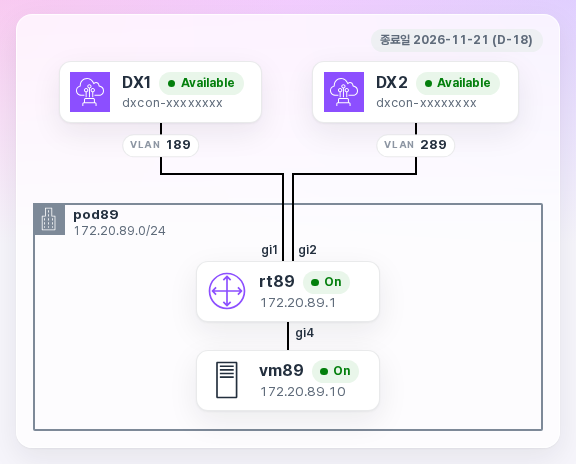
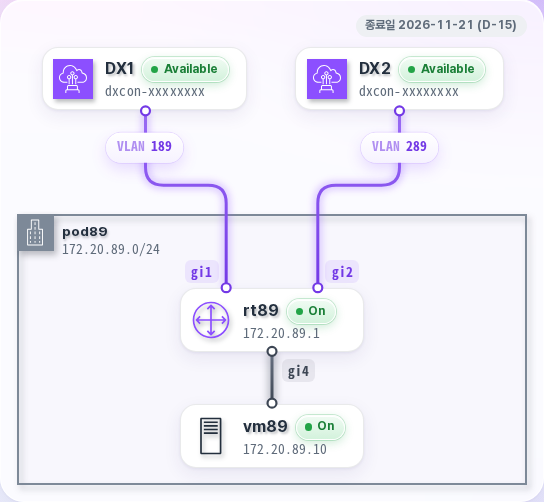
Re-verify the whole lab on the reset DX lab and fix the NAT rule steps, web server restart, samples, timings and portal screenshots
Claude-Session: https://claude.ai/code/session_019PvznqA5NsFad1uhAaMkXB

Changed region(s): [[0.0, 0.0, 1.0, 0.9655]]

diff --git a/tools/console.py b/tools/console.py
@@ -196,8 +196,15 @@ def main() -> int:
             elif clip is not None:
                 box = tuple(clip)
             if box:
+                box = tuple(int(round(v)) for v in box)
                 P().screenshot(path=str(path), clip={"x": box[0], "y": box[1],
                                                      "width": box[2] - box[0], "height": box[3] - box[1]})
+                # keep shots/crops.json in step so shots/crop.py reproduces this crop from the raw file
+                crops_file = ROOT / "shots/crops.json"
+                text = crops_file.read_text()
+                crops = json.loads(text)
+                crops[f"images/console/{name}.png"] = list(box)
+                crops_file.write_text(json.dumps(crops, indent=1) + ("\n" if text.endswith("\n") else ""))
             else:
                 import shutil
                 shutil.copy(raw, path)

diff --git a/PLAN.md b/PLAN.md
@@ -92,8 +92,8 @@
 | 2-2-1~2-2-6 | Direct Connect 연결 | ① **Direct Connect gateways** → **Create Direct Connect gateway**(ASN 65300) ② 스택 완료 후 DXGW 상세 → **Gateway associations** → **Associate gateway**(Transit Gateway, 허용된 접두사 `100.64.2.0/24`, `10.1.1.0/24`) ③ hosted connection마다 **Virtual interfaces** → **Create virtual interface** → **Transit**(Connection 선택, DXGW 선택, VLAN은 자동으로 채워지고 바꿀 수 없음, BGP ASN 65000) ④ 전송 가상 인터페이스 상세의 **Peerings** 탭에서 Your router peer IP, Amazon router peer IP, BGP authentication key 확인 ⑤ 사이트의 라우터 설정 생성기에 값을 넣어 만든 설정을 라우터에 붙여 넣기 ⑥ **Accepted Routes**·**Advertised Routes** 탭으로 주고받은 경로 확인 | 전송 가상 인터페이스 `available`, BGP `up`(콘솔), 라우터 `show ip bgp summary`에서 두 세션 Established, `10.1.1.0/24`·`100.64.2.0/24` 수신 | 20분 |
 | 2-2-6~2-2-7 | 기본 통신 | Transit Gateway 라우팅 테이블 확인, 라우터 Loopback1에서 VPC-B로 ping과 TCP 8080 | VPC-B 응답 서버가 `10.200.0.1`을 그대로 봄 | 5분 |
 | 2-3-1~2-3-2 | 겹치는 대역 문제 재현 | 라우팅 테이블에서 `172.20.N.0/24`가 VPC-A만 가리키는 것 확인, VPC-A EC2에 **Connect** → **EC2 Instance Connect Endpoint**로 접속해 tcpdump, VM에서 VPC-B로 ping | VM → VPC-B ping 실패(기대한 결과), VPC-A EC2가 VPC-B의 응답을 받음 | 7분 |
-| 2-3-3~2-3-6 | 1:1 NAT 적용 | **Transit gateway attachments** → DXGW 쪽 연결 → **1:1 NAT** 탭 → **Manage 1:1 NAT** → **Enable NAT Gateway support** 선택, **NAT system routes**는 선택된 채로 둠, **Add rule**(Rule number 100, Source CIDR `172.20.N.0/24`, NAT CIDR `100.64.1.0/24`) → **Save changes**. VPC-A 쪽 연결도 같은 방법(`100.64.2.0/24`, NAT system routes는 선택된 채 바꿀 수 없음) | 두 연결 모두 **Enabled**, 규칙 **Activated**(사전 테스트 시 약 13초). 라우팅 테이블에 `100.64.1.0/24`·`100.64.2.0/24` `system` 경로 | 7분 |
-| 2-3-7 | 양방향 통신과 1:1 매핑 | VM → `100.64.2.10` `ping`·`curl`, 보조 IP(`100.64.2.20`) `ping`, 고정 출발지 포트(`curl --local-port 40000`). VM에서 `python3 -m http.server 8080`을 띄우고 VPC-A EC2 → `100.64.1.10` `ping`·`curl`. **(선택)** UDP: `(echo hello; sleep 1) \| nc -u -w 2 100.64.2.10 9000`(traditional `nc`와 ncat 모두 동작). 시간이 부족하면 강사가 UDP 단계를 생략 | VPC-A는 `100.64.1.10`, 온프레미스는 `100.64.2.10`으로 봄. 마지막 옥텟·포트 유지. UDP 응답도 `saw 100.64.1.10:<포트>` | 10분 |
+| 2-3-3~2-3-6 | 1:1 NAT 적용 | **Transit gateway attachments** → DXGW 쪽 연결 → **1:1 NAT** 탭 → **Manage 1:1 NAT** → **Enable NAT Gateway support** 선택(빈 규칙 줄이 자동으로 생김), **NAT system routes**는 선택된 채로 둠, 생긴 줄에 Rule number 100, Source CIDR `172.20.N.0/24`, NAT CIDR `100.64.1.0/24` → **Save changes**. VPC-A 쪽 연결도 같은 방법(`100.64.2.0/24`, NAT system routes는 선택된 채 바꿀 수 없음) | 두 연결 모두 **Enabled**, 규칙 **Activated**(사전 테스트 시 30초 안). 라우팅 테이블에 `100.64.1.0/24`·`100.64.2.0/24` `system` 경로 | 7분 |
+| 2-3-7 | 양방향 통신과 1:1 매핑 | VM → `100.64.2.10` `ping`·`curl`, 보조 IP(`100.64.2.20`) `ping`, 고정 출발지 포트(`curl --local-port 40000`). VM에서 `pkill -f 'http.server 8080'; python3 -m http.server 8080 &`로 웹 서버를 띄우고 VPC-A EC2 → `100.64.1.10` `ping`·`curl`. **(선택)** UDP: `(echo hello; sleep 1) \| nc -u -w 2 100.64.2.10 9000`(traditional `nc`와 ncat 모두 동작). 시간이 부족하면 강사가 UDP 단계를 생략 | VPC-A는 `100.64.1.10`, 온프레미스는 `100.64.2.10`으로 봄. 마지막 옥텟·포트 유지. UDP 응답도 `saw 100.64.1.10:<포트>` | 10분 |
 
 실습 2-2는 25분 안에 2-2-1~2-2-7(25분), 실습 2-3은 2-3-1~2-3-7(24분)입니다. 2-3-7에서 만든 트래픽은 추가 과제 3-3의 지표·로그 관측에 다시 씁니다.
 
@@ -196,6 +196,23 @@
 | 라우팅 테이블 | `100.64.1.0/24`(DXGW)·`100.64.2.0/24`(VPC) **System**, `172.20.89.0/24`는 DXGW Propagated | Routes 탭의 **Route type** 열 |
 | 양방향·1:1 | VM → VPC-A ping 5/5, `saw 100.64.1.10:42306`, UDP `saw 100.64.1.10:33792`, `.20` 3/3, `:40000` 유지. VPC-A → VM ping 4/4, VM `http.server` 로그에 `100.64.2.10` | VM은 기본 도구만 사용 |
 | 정리(추가 과제 3-4) | 09:47:22 시작 → 09:59:57 스택 삭제 완료(약 13분). NAT 끄기 약 1분, 게이트웨이 연결 끊기 약 2분, VIF 삭제 약 3분, DXGW 즉시, 스택 약 2.5분 | 스택 삭제 확인 창에 스택 이름 입력 필요. 끝난 뒤 hosted connection 2개는 Available로 남음 |
+
+### 13.1 재검증(2026-11-06, DX 랩 초기화 뒤, Pod 89)
+
+참가자 접속 링크로 포털에 들어가 온프레미스 라우터와 VM 단계를 웹 터미널에서 진행했습니다. AWS 쪽은 1:1 NAT 설정을 콘솔에서, 나머지는 같은 동작의 CLI로 했습니다. hosted connection은 이미 `available`이라 수락 단계는 다시 하지 못했습니다.
+
+| 단계 | 측정(UTC) | 바뀐 점과 문서에 반영한 것 |
+|---|---|---|
+| 스택 배포 | 10:33:34 → 10:39:49(6분 15초) | 같음 |
+| 게이트웨이 연결 | 10:41:20 → 10:43:48 `associated`(약 2분 30초) | 같음 |
+| 전송 가상 인터페이스 | 라우터 설정 뒤 10:44:39·10:47:47 `available`·BGP `up` | 같음. 라우터 설정은 사이트 생성기의 **복사** 결과를 그대로 붙여 넣음(`%` 오류 없음) |
+| 1:1 NAT | DXGW 쪽 10:58:54 저장 → 7초 안 `activated`, VPC-A 쪽 10:59:38 → 11:00:03 `enabled` | **Enable NAT Gateway support**를 선택하면 빈 규칙 줄이 자동으로 생김. 여기서 **Add rule**을 누르면 빈 줄이 남아 `Rule number is required.`로 저장 실패 → 2-3-4·2-3-5 절차를 고침 |
+| 통신 | 2-2-6, 2-3-2, 2-3-7, 3-1의 결과가 문서와 같음 | 예시 출력(ping 시간, 날짜, 포트, UDP 명령)을 이번 결과로 바꿈 |
+| 웹 터미널 재접속 | 끊긴 세션에서 띄운 `http.server`가 포트를 잡은 채 응답하지 않음(`HTTP 000`, 새로 띄우면 `Address already in use`) | 서버를 띄우는 명령을 `pkill -f 'http.server 8080'; python3 -m http.server 8080 &`로 바꾸고 문제 해결 표에 추가 |
+| NAT system routes | 광고를 멈추면 15초 뒤 `blackhole`, 요약 광고로 9초 뒤 `active`. 끄면 10초 안 `propagated` | 같음 |
+| 지표·로그 | ping 200개 구간 Sum: DXGW·VPC-A `PacketsInNAT`·`PacketsOutNAT` 203(확인용 ping 3개 포함), VPC-B 0. Flow Logs 쿼리 결과 같음 | 같음 |
+| 정리 | 11:40:14 시작 → 11:51:08 스택 삭제 완료(약 11분). NAT 끄기 약 1분 20초, 연결 끊기 2분, VIF 삭제 4분 17초, 스택 3분 | VIF 삭제 시간을 약 4분으로 고침 |
+| 포털 화면 | 실습 장비 페이지 모양이 바뀜(VLAN 배지, 연결선, 사용 설명서·AWS 콘솔 버튼) | 1-2 사전 준비와 2-2-6의 포털 스크린샷을 새로 찍음 |
 
 ## 참고
 

diff --git a/docs/lab2.md b/docs/lab2.md
@@ -65,15 +65,15 @@ VPC-A EC2에는 인터넷 주소가 없습니다. 그래서 스택이 만든 EC2
     ![1:1 NAT 탭: NAT Gateway support Disabled, NAT system routes Yes, 규칙 없음](images/console/lab2-nat-01-dxgw-tab.png){ .shot }
 
 3. 아래처럼 설정합니다.
-    - **Enable NAT Gateway support**를 선택합니다.
+    - **Enable NAT Gateway support**를 선택합니다. 선택하면 아래에 빈 규칙 줄이 하나 생깁니다.
     - **NAT system routes**는 선택된 채로 둡니다. NAT 대역 경로를 Transit Gateway가 알아서 만듭니다. 무엇인지는 아래 설명 상자에 있습니다.
-    - **Add rule**을 누르고 **Rule number** `100`, **Source CIDR** `172.20.N.0/24`, **NAT CIDR** `100.64.1.0/24`를 넣습니다. 입력란 아래에 목록이 뜨면 **Use "…"** 를 고릅니다.
+    - 생긴 규칙 줄에 **Rule number** `100`, **Source CIDR** `172.20.N.0/24`, **NAT CIDR** `100.64.1.0/24`를 넣습니다. 입력란 아래에 목록이 뜨면 **Use "…"** 를 고릅니다. **Add rule**은 누르지 않습니다.
 
     ![Manage NAT rules 화면: 두 확인란이 선택되어 있고 규칙 100은 172.20.89.0/24 → 100.64.1.0/24](images/console/lab2-nat-02-dxgw-form.png){ .shot }
 
 4. **Save changes**를 누릅니다.
 
-빈 규칙 줄이 남아 있으면 저장되지 않습니다. 빈 줄의 **Remove**를 누르세요.
+빈 규칙 줄이 남아 있으면 `Rule number is required.` 같은 오류가 나고 저장되지 않습니다. **Add rule**을 눌러 줄이 더 생겼다면 빈 줄의 **Remove**를 누르세요.
 
 !!! info "NAT system routes는 무엇인가요?"
     **왜 경로가 하나 더 필요한가요?**
@@ -119,7 +119,7 @@ VPC-A EC2에는 인터넷 주소가 없습니다. 그래서 스택이 만든 EC2
 
     VPC 연결에서 규칙의 원래 대역이 VPC 대역과 다르면(예: `/16` VPC 안의 `/24`) 주소는 바뀌지만 경로는 생기지 않습니다. 그러면 NAT 주소로 오는 패킷(응답 포함)이 VPC로 가지 못합니다. 이때는 NAT 대역 정적 경로를 직접 추가해야 합니다.
 
-**성공 확인**: **1:1 NAT** 탭에 **NAT Gateway support: Enabled**, 규칙 상태 **Activated**가 보입니다(사전 테스트 시 약 13초).
+**성공 확인**: **1:1 NAT** 탭에 **NAT Gateway support: Enabled**, 규칙 상태 **Activated**가 보입니다(사전 테스트 시 30초 안). **Enabling**이면 잠시 뒤 새로 고칩니다.
 
 ![1:1 NAT 탭: NAT Gateway support Enabled, 규칙 100 Activated](images/console/lab2-nat-04-dxgw-enabled.png){ .shot }
 
@@ -128,7 +128,7 @@ VPC-A EC2에는 인터넷 주소가 없습니다. 그래서 스택이 만든 EC2
 VPC-A 주소 `172.20.N.0/24`가 밖에서 `100.64.2.0/24`로 보이게 합니다.
 
 1. **Transit gateway attachments**에서 이름이 `tgwnat-attach-vpc-a`인 연결을 누릅니다.
-2. 2-3-4와 같은 방법으로 **Enable NAT Gateway support**를 선택하고, 규칙 `100`, `172.20.N.0/24` → `100.64.2.0/24`를 넣어 저장합니다.
+2. 2-3-4와 같은 방법으로 **Enable NAT Gateway support**를 선택하고, 자동으로 생긴 규칙 줄에 `100`, `172.20.N.0/24` → `100.64.2.0/24`를 넣어 저장합니다.
 
 VPC 연결에서는 **NAT system routes**가 항상 켜져 있어 바꿀 수 없습니다. DXGW 연결과의 차이는 [2-3-4의 설명 상자](#lab2-4)에 있습니다.
 
@@ -179,8 +179,10 @@ curl --local-port 40000 http://100.64.2.10:8080/
 1. 온프레미스 VM(`vmN`) 터미널에서 웹 서버를 백그라운드로 실행합니다. 이 웹 서버는 접속해 온 상대의 주소를 이 터미널에 기록합니다. 명령 끝의 `&`는 백그라운드 실행을 뜻합니다. 그래서 서버가 도는 동안에도 같은 터미널에서 다른 명령을 입력할 수 있습니다.
 
     ```bash
-    python3 -m http.server 8080 &
+    pkill -f 'http.server 8080'; python3 -m http.server 8080 &
     ```
+
+    앞의 `pkill`은 전에 띄운 웹 서버가 남아 있으면 끕니다. 웹 터미널이 끊겼다가 다시 열리면, 전에 띄운 서버가 포트를 잡은 채 응답하지 못하기 때문입니다.
 
 2. VPC-A EC2 터미널에서 온프레미스의 NAT 주소로 보냅니다.
 
@@ -204,11 +206,11 @@ curl --local-port 40000 http://100.64.2.10:8080/
 
     응답이 `vpc-a-ec2 saw 100.64.1.10:<포트> hello`이면 UDP도 같은 방식으로 바뀐 것입니다.
 
-    사전 테스트 때 실제로 나온 출력입니다(Pod 89). 이때는 보낼 글자를 `lab2-udp`로 했습니다. 보낸 글자가 응답 끝에 그대로 붙습니다. 포트 번호는 매번 다릅니다.
+    사전 테스트 때 실제로 나온 출력입니다(Pod 89). 보낸 글자(`hello`)가 응답 끝에 그대로 붙습니다. 포트 번호는 매번 다릅니다.
 
     ```text
-    labuser@vm89:~$ echo lab2-udp | nc -u -w 2 100.64.2.10 9000; echo
-    vpc-a-ec2 saw 100.64.1.10:33792 lab2-udp
+    labuser@vm89:~$ (echo hello; sleep 1) | nc -u -w 2 100.64.2.10 9000; echo
+    vpc-a-ec2 saw 100.64.1.10:53541 hello
     ```
 
     VPC-A EC2는 온프레미스 VM을 UDP에서도 `100.64.1.10`으로 봅니다. TCP(`curl`)와 같습니다.

diff --git a/docs/troubleshooting.md b/docs/troubleshooting.md
@@ -12,7 +12,8 @@
 | NAT 설정이 저장되지 않음 | **Manage NAT rules** 화면의 빨간 글씨 | 빈 규칙 줄을 **Remove**. 대역 입력란은 목록에서 **Use "…"** 를 고름. enabling·disabling 중이면 끝날 때까지 기다림 |
 | NAT 뒤에도 온프레미스 VM(`vmN`) → `100.64.2.10` 실패 | **1:1 NAT** 탭, 라우팅 테이블 | 두 연결 모두 **Enabled**·**Activated**인지, `100.64.2.0/24` System 경로가 있는지 확인 |
 | NAT 뒤 VPC-A → `100.64.1.10` 실패 | 라우팅 테이블 | `100.64.1.0/24` System 경로가 **Active**인지. **Blackhole**이면 온프레미스 라우터가 `172.20.N.0/24`를 광고하는지 확인 |
-| 온프레미스 VM에서 `curl`은 되는데 반대 방향이 안 됨 | 온프레미스 VM(`vmN`) 터미널 | `python3 -m http.server 8080 &`를 띄웠는지 확인 |
+| 온프레미스 VM에서 `curl`은 되는데 반대 방향이 안 됨 | 온프레미스 VM(`vmN`) 터미널 | 웹 서버를 띄웠는지 확인: `pkill -f 'http.server 8080'; python3 -m http.server 8080 &` |
+| 웹 서버를 띄울 때 `Address already in use`, 또는 상대 쪽 `curl`이 `HTTP 000` | 온프레미스 VM(`vmN`) 터미널 | 끊긴 웹 터미널에서 띄운 서버가 남아 있음. `pkill -f 'http.server 8080'` 뒤 다시 실행 |
 | VPC-A EC2나 VPC-B EC2 터미널이 끊김 | — | 최대 1시간 유지. **Connect**로 다시 접속 |
 | 온프레미스 VM의 `nc -u`가 답 없이 끝남 | — | `(echo hello; sleep 1) \| nc -u -w 2 …` 형태로 보냄 |
 | 지표나 로그가 비어 있음 | 시간 범위 | 몇 분 늦게 나타남. 시간 범위를 **1h**로 두고 다시 조회 |

diff --git a/docs/lab1.md b/docs/lab1.md
@@ -122,18 +122,18 @@ Type escape sequence to abort.
 Sending 5, 100-byte ICMP Echos to 10.1.1.10, timeout is 2 seconds:
 Packet sent with a source address of 10.200.0.1
 !!!!!
-Success rate is 100 percent (5/5), round-trip min/avg/max = 4/5/9 ms
+Success rate is 100 percent (5/5), round-trip min/avg/max = 5/6/10 ms
 rt89#telnet 10.1.1.10 8080 /source-interface Loopback1
 Trying 10.1.1.10, 8080 ... Open
 GET / HTTP/1.0
 
 HTTP/1.0 200 OK
 Server: BaseHTTP/0.6 Python/3.9.25
-Date: Tue, 03 Nov 2026 07:57:11 GMT
+Date: Fri, 06 Nov 2026 10:50:05 GMT
 Content-Type: text/plain
 Content-Length: 31
 
-vpc-b-ec2 saw 10.200.0.1:35329
+vpc-b-ec2 saw 10.200.0.1:30721
 
 [Connection to 10.1.1.10 closed by foreign host]
 ```

diff --git a/docs/extra-a.md b/docs/extra-a.md
@@ -18,7 +18,7 @@ VPC-B에는 NAT 규칙이 없습니다. 하지만 DXGW 연결로 **들어오는*
 
 ## 3-1-2. VPC-B → NAT 주소 { #a2 }
 
-1. 온프레미스 VM(`vmN`) 터미널에서 웹 서버를 백그라운드로 실행합니다: `python3 -m http.server 8080 &`
+1. 온프레미스 VM(`vmN`) 터미널에서 웹 서버를 백그라운드로 실행합니다. [2-3-7](lab2.md#lab2-7)과 같은 명령입니다: `pkill -f 'http.server 8080'; python3 -m http.server 8080 &`
 2. VPC-B EC2(`tgwnat-vpc-b-ec2`)에 [2-3-1](lab2.md#lab2-1)처럼 접속해 실행합니다.
 
     ```bash

diff --git a/docs/extra-d.md b/docs/extra-d.md
@@ -22,7 +22,7 @@
 
 **성공 확인**: 목록에서 게이트웨이 연결이 사라집니다. 이 연결이 남아 있으면 스택이 Transit Gateway를 지우지 못합니다.
 
-## 3-4-3. 전송 가상 인터페이스 지우기 (약 3분) { #d3 }
+## 3-4-3. 전송 가상 인터페이스 지우기 (약 4분) { #d3 }
 
 **Virtual interfaces**에서 `tgw-nat-vif1`을 고르고 **Delete**를 누릅니다. 확인 창에서 다시 **Delete**를 누릅니다. `tgw-nat-vif2`도 같은 방법으로 지웁니다.
 
